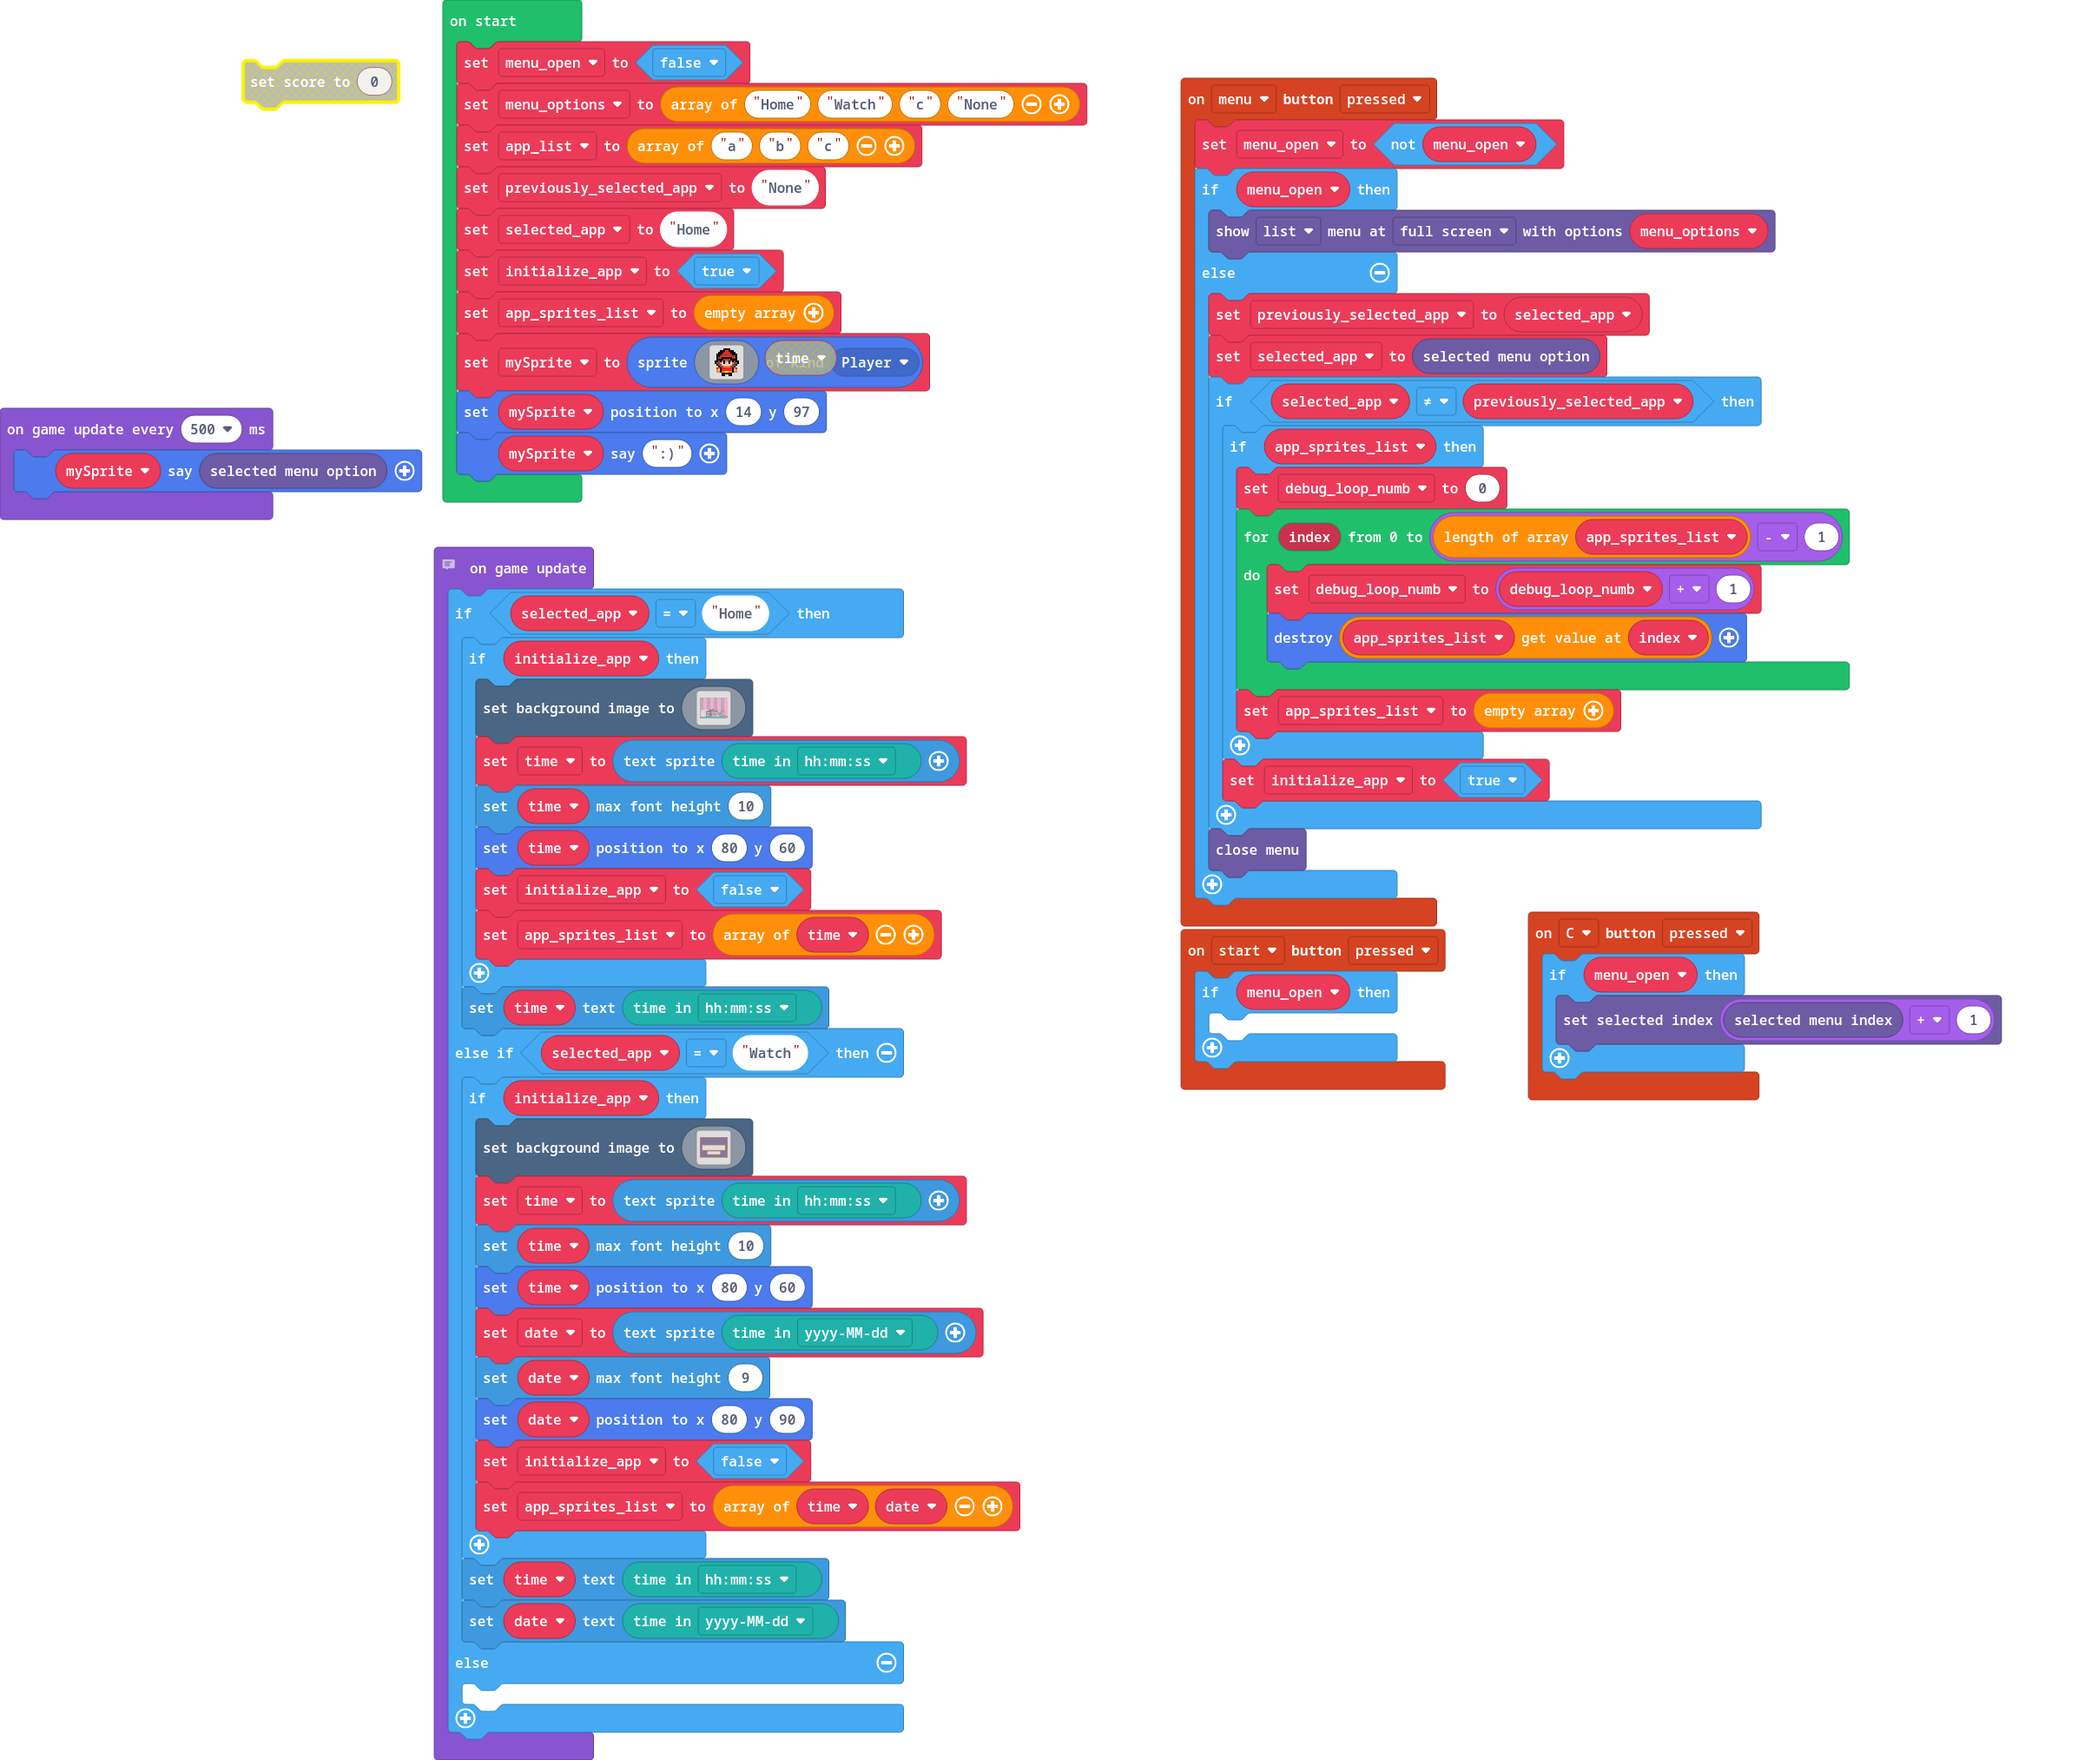
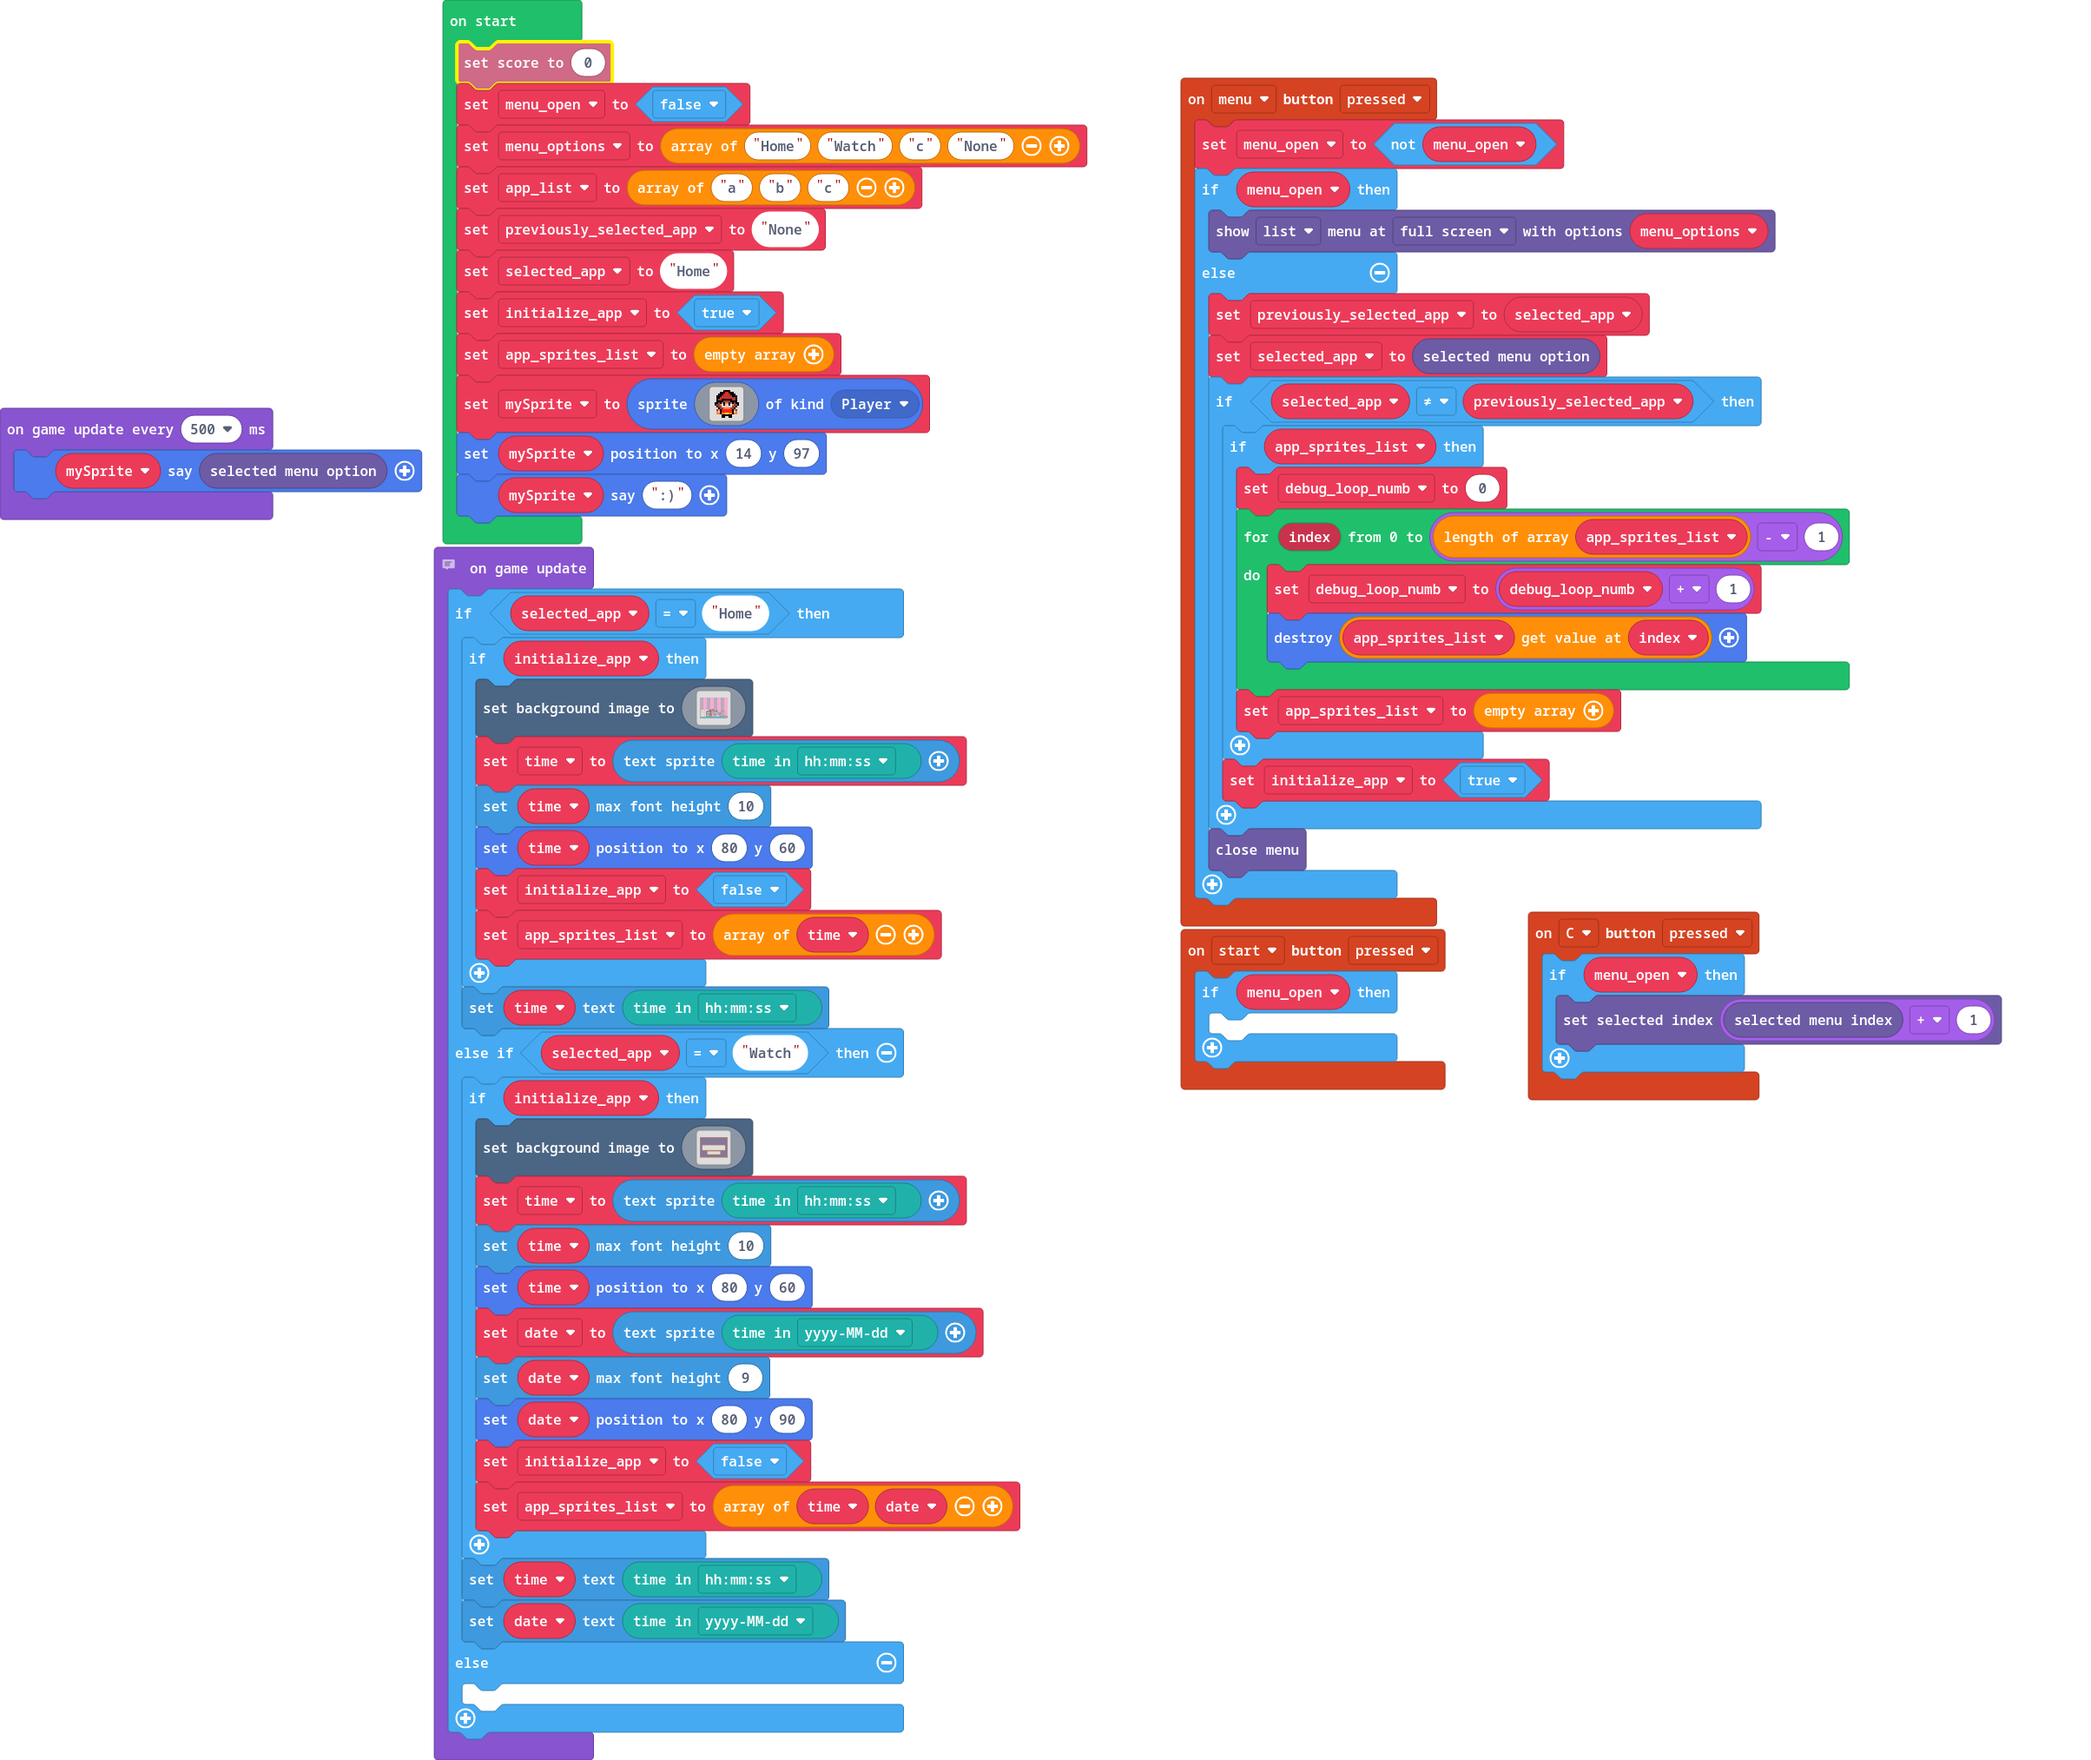
test 2

Changed region(s): [[0.0934, 0.0, 0.5295, 0.311]]

diff --git a/main.ts b/main.ts
@@ -38,6 +38,7 @@ let selected_app = ""
 let previously_selected_app = ""
 let menu_options: string[] = []
 let menu_open = false
+info.setScore(0)
 menu_open = false
 menu_options = ["Home", "Watch", "c", "None"]
 let app_list = ["a", "b", "c"]
